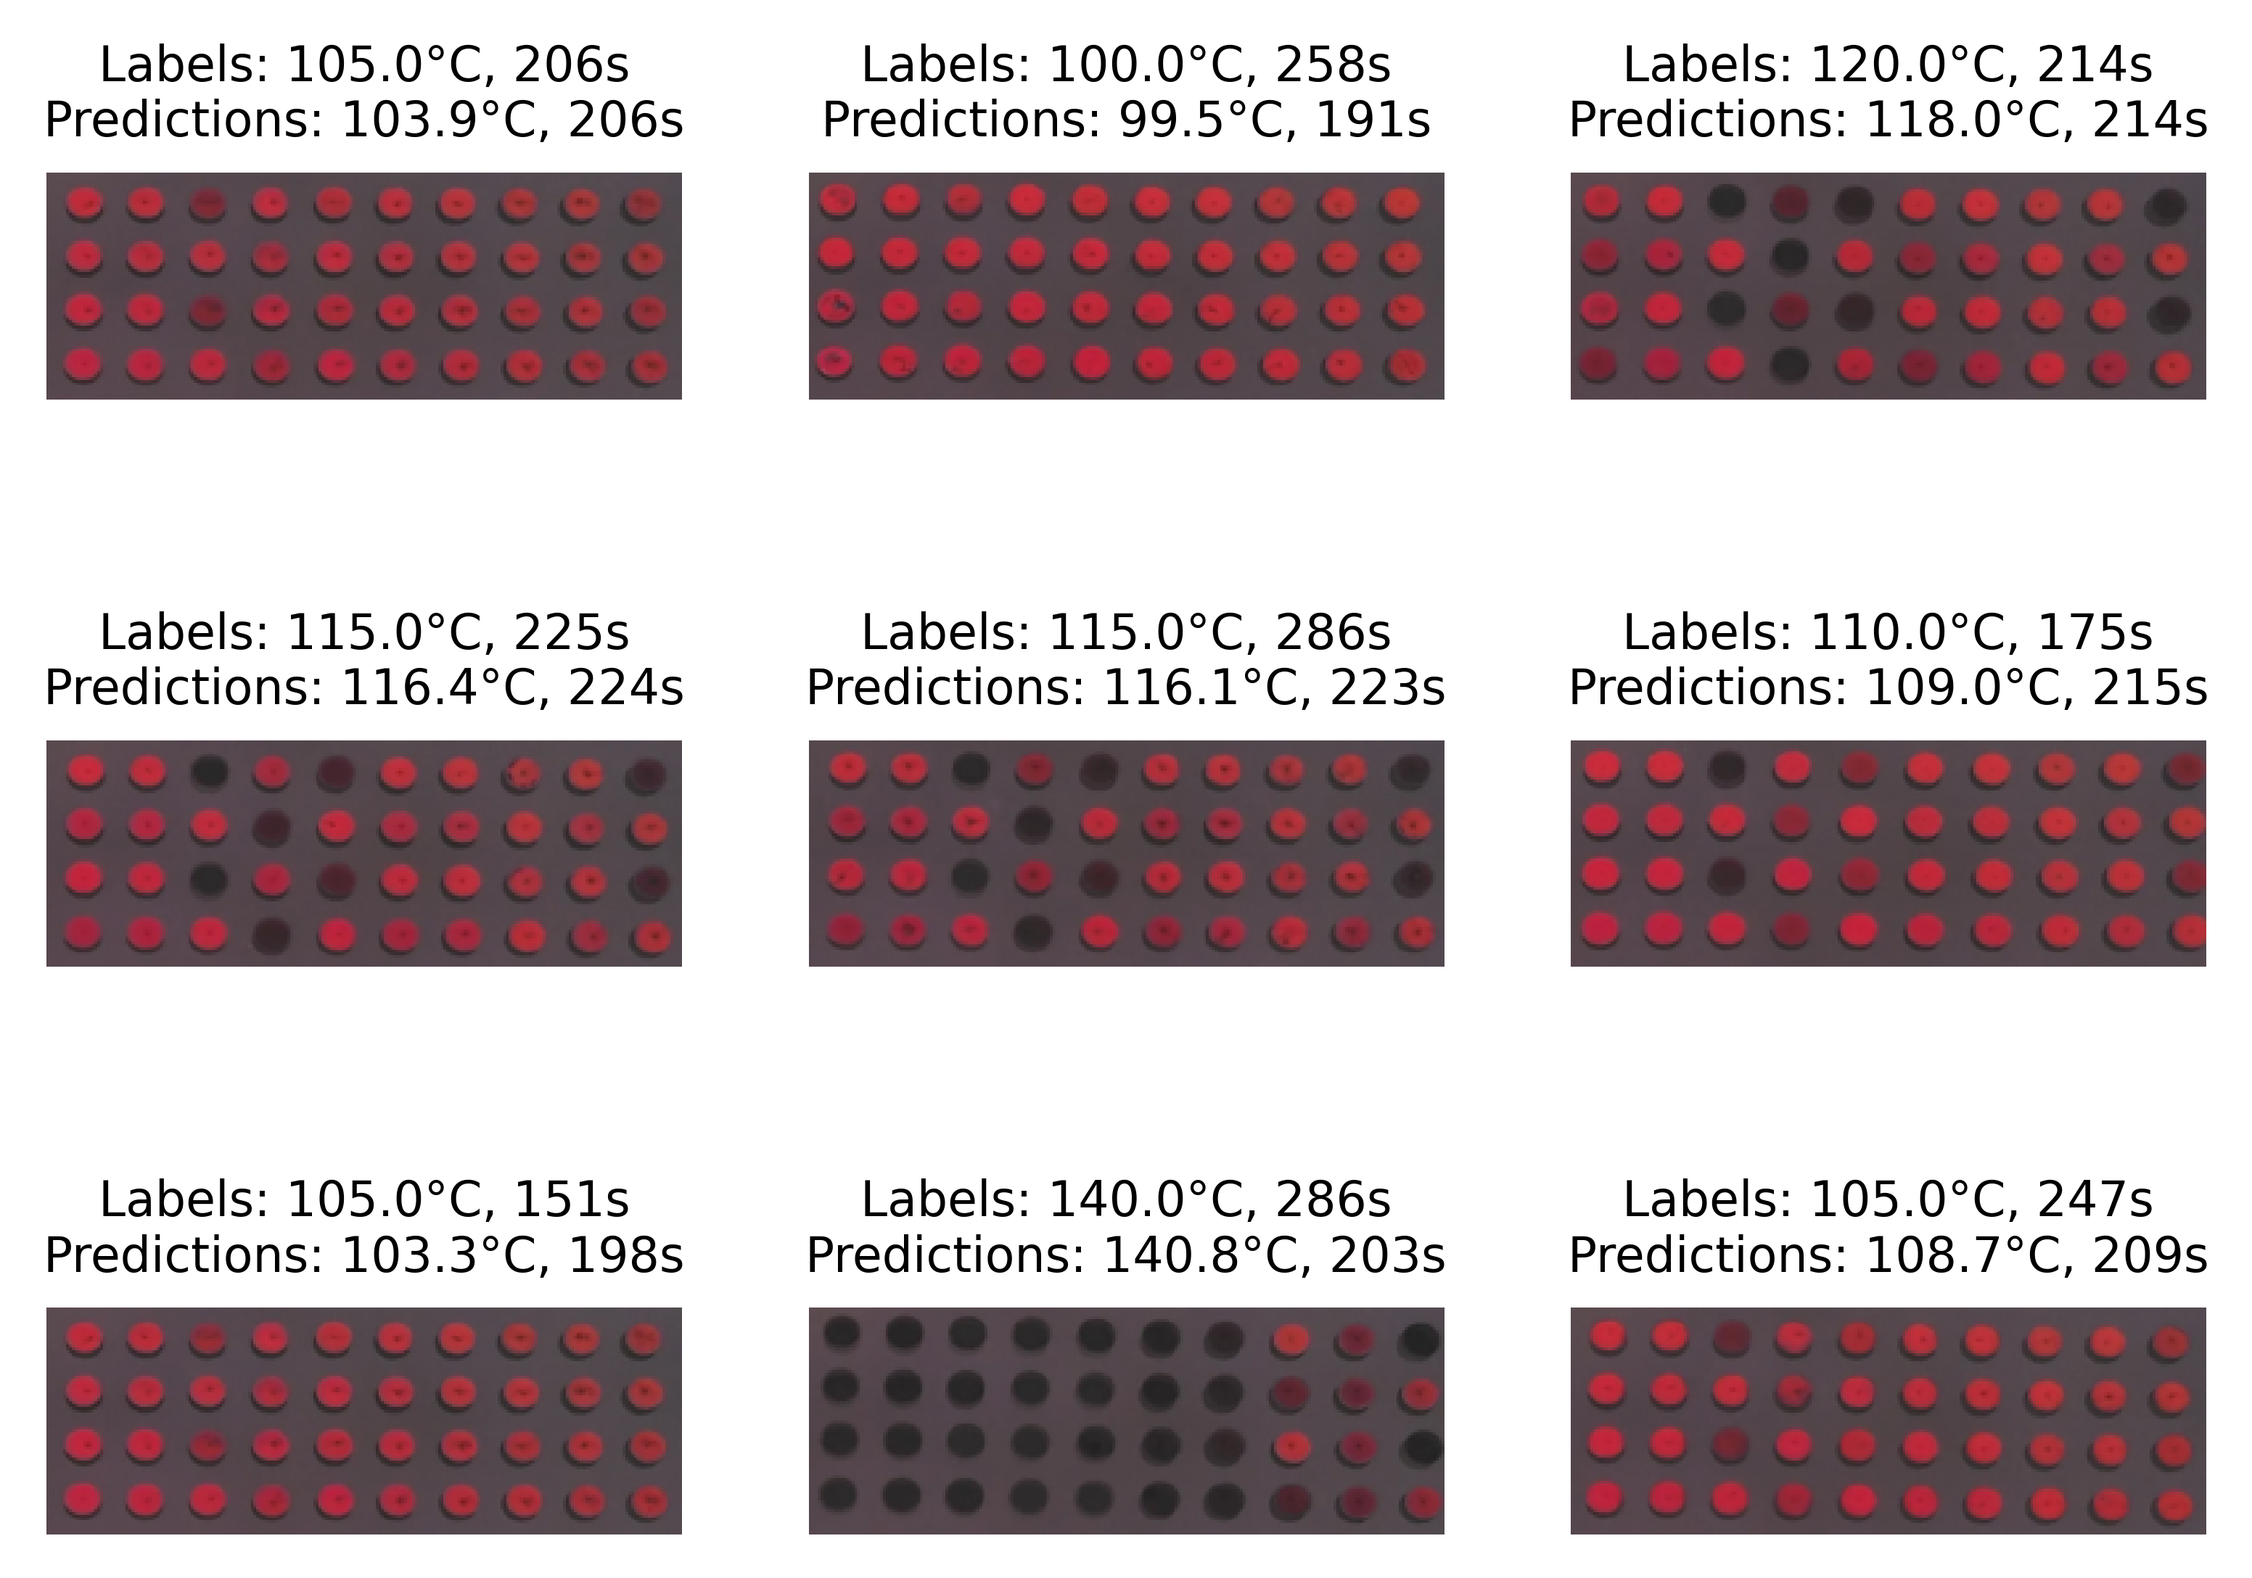
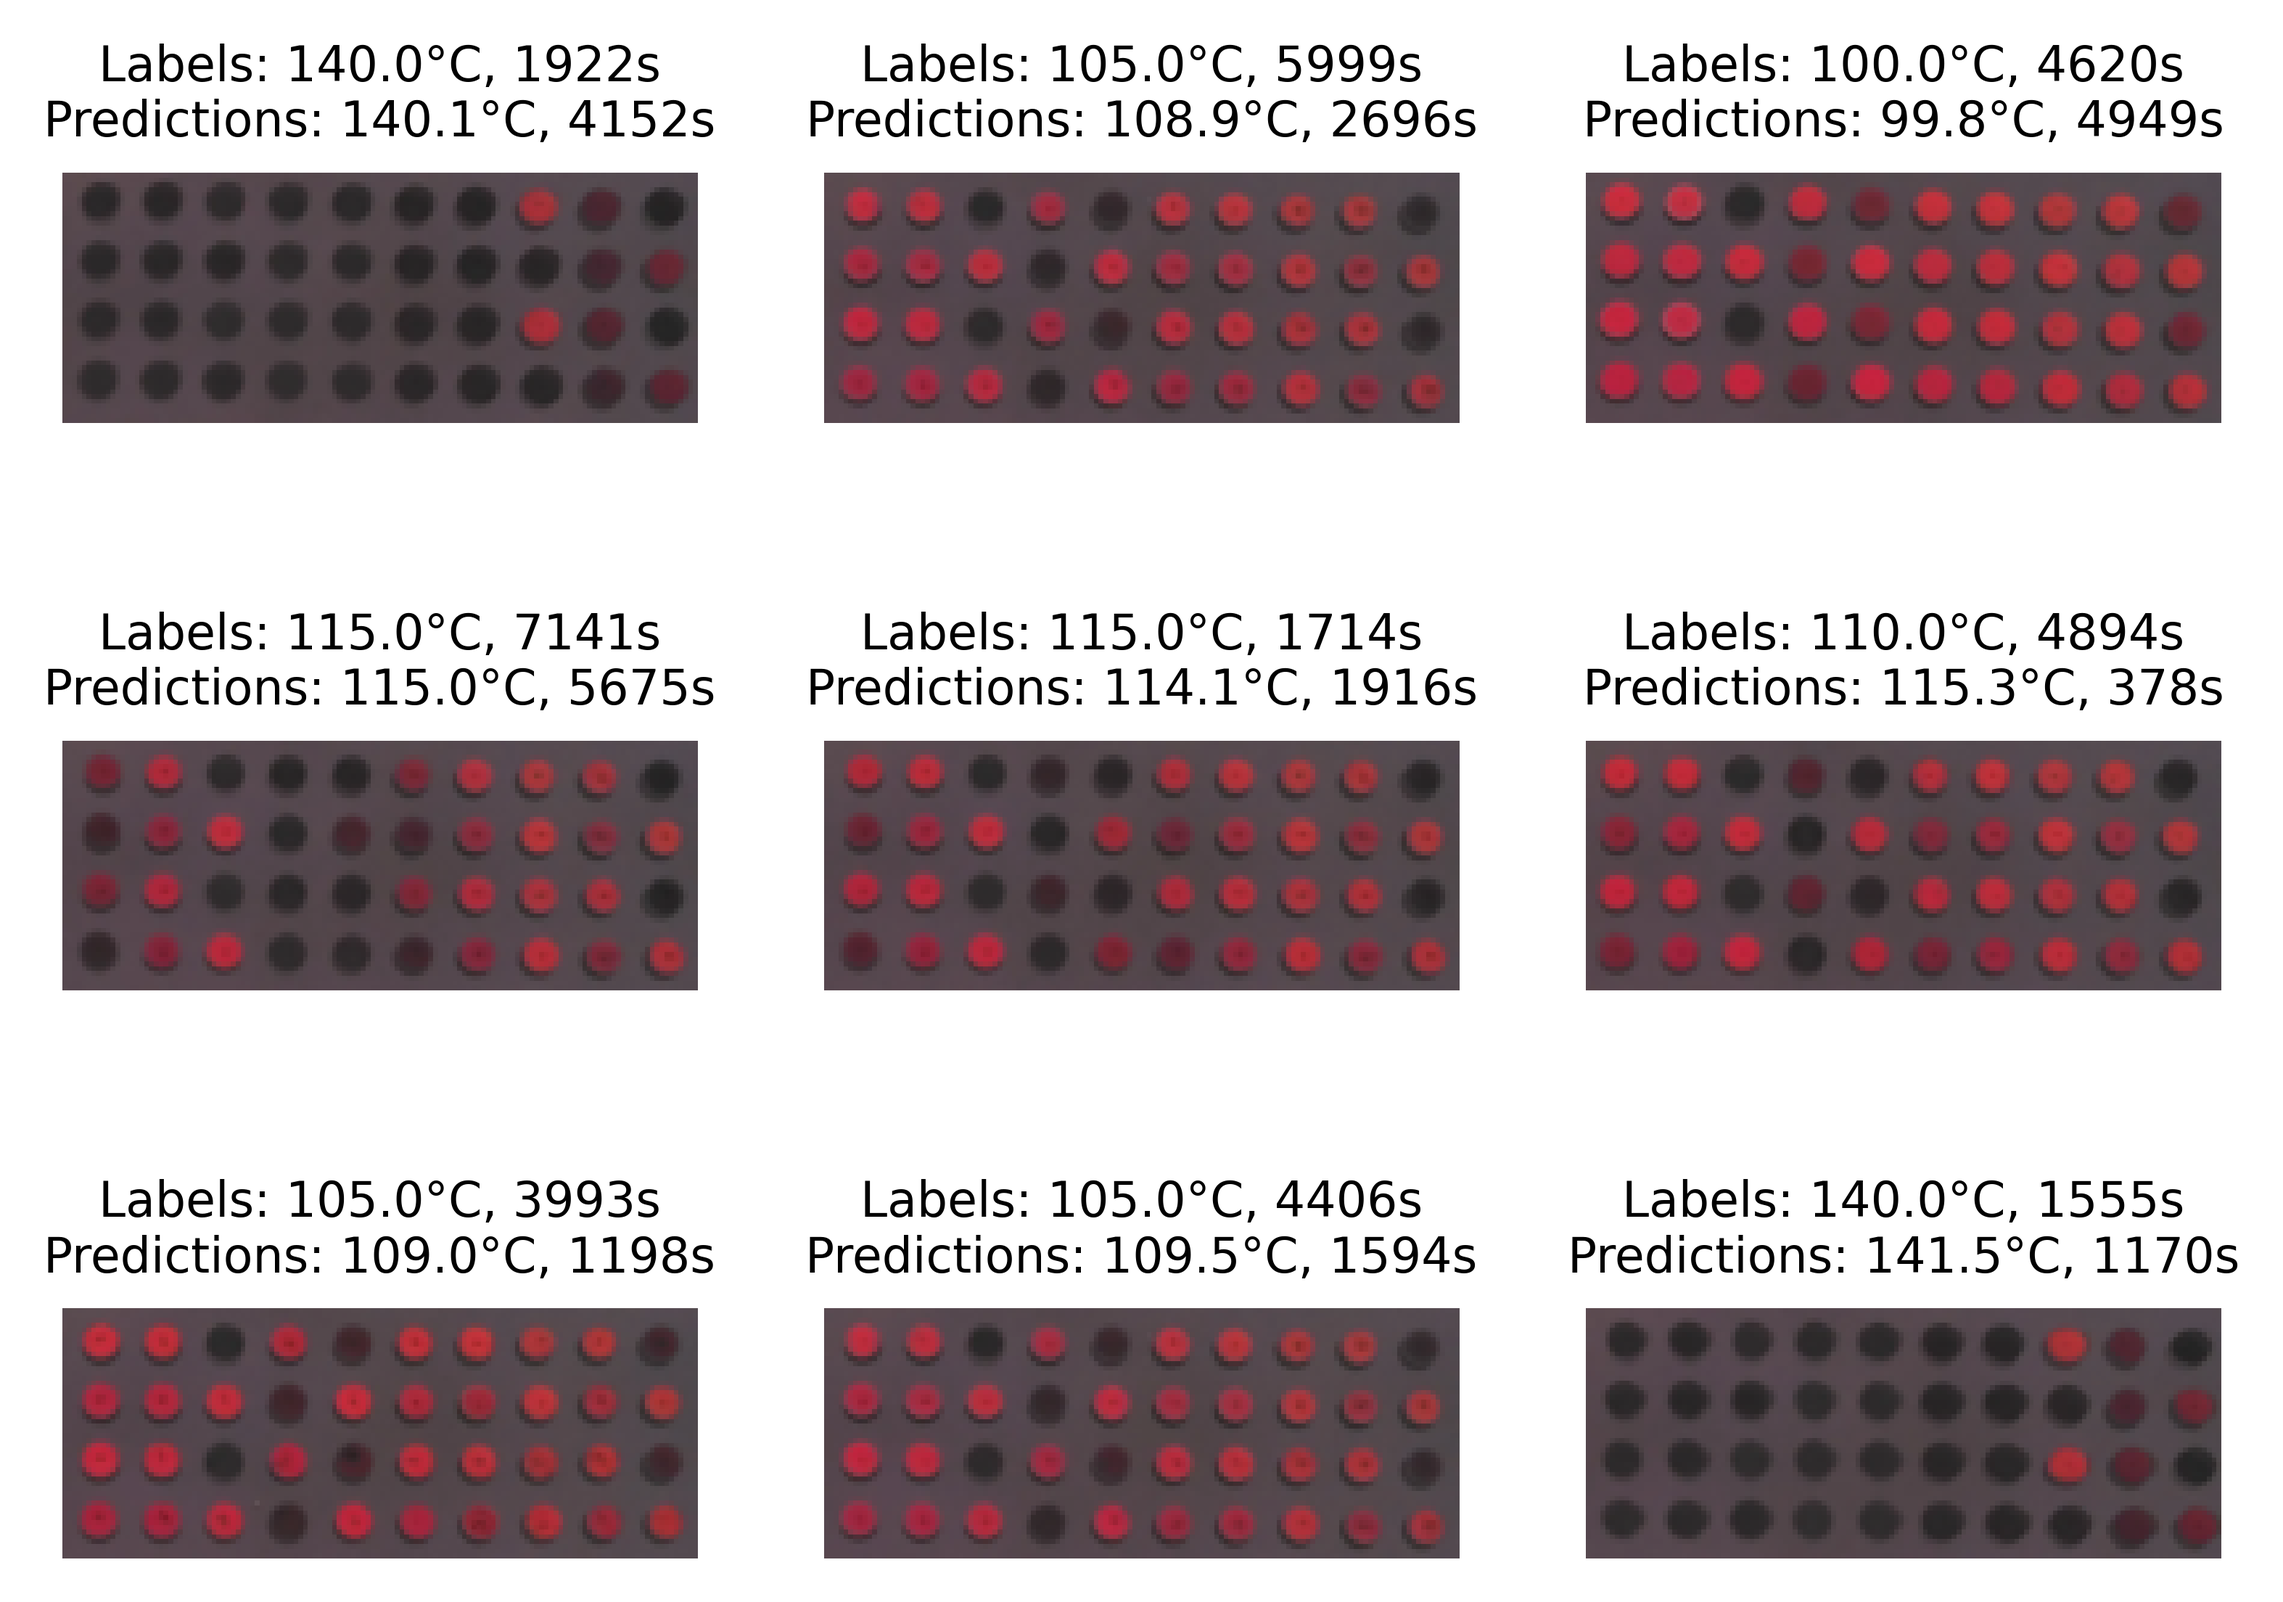
AdaptiveAvgPool2d added to custom_model

diff --git a/1_custom_model/train.py b/1_custom_model/train.py
@@ -16,11 +16,11 @@ import engine
 import utils
 
 # Set hyperparameters
-EPOCHS = 2
+EPOCHS = 10
 BATCH_SIZE = 64
 LEARNING_RATE = 1e-3
-NUM_CONV_BLOCKS = 10
-HIDDEN_UNITS = 10
+NUM_CONV_BLOCKS = 3
+HIDDEN_UNITS = 100
 DROPOUT_PROB = 0.5
 TRANSFORM = custom_transforms.CustomTransforms(downscaling_factor=8)
 MODEL = custom_model.CustomConvModel
@@ -31,8 +31,10 @@ RANDOM_SEED = 42
 NUM_WORKERS = os.cpu_count()
 
 # Data directory
-DATA_FOLDER = Path(os.path.abspath(__file__)).parents[1] / "0_data_preprocessing/split_assignment"
-ASSIGNMENT_FOLDER = DATA_FOLDER / "60-20-20-split_300-seconds"
+DATA_FOLDER = (
+    Path(os.path.abspath(__file__)).parents[1] / "0_data_preprocessing/split_assignment"
+)
+ASSIGNMENT_FOLDER = DATA_FOLDER / "60-20-20-split_7200-seconds"
 
 
 # Deep Learning
@@ -82,10 +84,12 @@ def main():
     )
 
     # Model, optimizer and loss function
-    model = MODEL(hidden_units=HIDDEN_UNITS,
-                  input_shape=list(train_data[0][0].shape),
-                  num_blocks=NUM_CONV_BLOCKS,
-                  dropout_prob=DROPOUT_PROB)
+    model = MODEL(
+        hidden_units=HIDDEN_UNITS,
+        input_shape=list(train_data[0][0].shape),
+        num_blocks=NUM_CONV_BLOCKS,
+        dropout_prob=DROPOUT_PROB,
+    )
     model.to(device)
 
     optimizer = OPTIMIZER(
@@ -144,10 +148,10 @@ def main():
         fig_pred=fig_pred,
         normalization_stats=train_data.stats,
         hyperparameters=hyperparameters,
-        save_dir=save_path
+        save_dir=save_path,
     )
 
 
 if __name__ == "__main__":
-    # torch.multiprocessing.set_start_method(method="spawn", force=True)
+    torch.multiprocessing.set_start_method(method="spawn", force=True)
     main()

diff --git a/2_pretrained_model/train.py b/2_pretrained_model/train.py
@@ -16,7 +16,7 @@ import engine
 import utils
 
 # Set hyperparameters
-EPOCHS = 2
+EPOCHS = 10
 BATCH_SIZE = 64
 LEARNING_RATE = 1e-3
 MODEL = "efficientnet_b0"
@@ -30,8 +30,10 @@ RANDOM_SEED = 42
 NUM_WORKERS = os.cpu_count()
 
 # Data directory
-DATA_FOLDER = Path(os.path.abspath(__file__)).parents[1] / "0_data_preprocessing/split_assignment"
-ASSIGNMENT_FOLDER = DATA_FOLDER / "60-20-20-split_300-seconds"
+DATA_FOLDER = (
+    Path(os.path.abspath(__file__)).parents[1] / "0_data_preprocessing/split_assignment"
+)
+ASSIGNMENT_FOLDER = DATA_FOLDER / "60-20-20-split_7200-seconds"
 
 
 # Deep Learning
@@ -95,7 +97,8 @@ def main():
         pretrained_model=MODEL,
         pretrained_weights=WEIGHTS,
         freeze_weights=FREEZE_WEIGHTS,
-        dropout_prob=DROPOUT_PROB)
+        dropout_prob=DROPOUT_PROB,
+    )
     model.to(device)
 
     optimizer = OPTIMIZER(
@@ -132,7 +135,7 @@ def main():
         device=device,
         stats=train_data.stats,
         image_mean=default_transform.mean,
-        image_std=default_transform.std
+        image_std=default_transform.std,
     )
     hyperparameters = {
         "epochs": EPOCHS,
@@ -158,7 +161,7 @@ def main():
         fig_pred=fig_pred,
         normalization_stats=train_data.stats,
         hyperparameters=hyperparameters,
-        save_dir=save_path
+        save_dir=save_path,
     )
 
 

diff --git a/1_custom_model/custom_model.py b/1_custom_model/custom_model.py
@@ -17,11 +17,11 @@ class CustomConvModel(nn.Module):
             conv_blocks.append(
                 nn.Sequential(
                     nn.Conv2d(
-                        in_channels, hidden_units, kernel_size=2, padding=1, stride=1
+                        in_channels, hidden_units, kernel_size=3, padding=1, stride=1
                     ),
                     nn.LeakyReLU(),
                     nn.Conv2d(
-                        hidden_units, hidden_units, kernel_size=2, padding=1, stride=1
+                        hidden_units, hidden_units, kernel_size=3, padding=1, stride=1
                     ),
                     nn.LeakyReLU(),
                     nn.MaxPool2d(2),
@@ -29,7 +29,7 @@ class CustomConvModel(nn.Module):
             )
             in_channels = hidden_units
 
-        self.conv = nn.Sequential(*conv_blocks)
+        self.conv = nn.Sequential(*conv_blocks, nn.AdaptiveAvgPool2d((1, 1)))
 
         # Determine length of flattened output
         with torch.no_grad():

diff --git a/0_data_preprocessing/train_cv_test_split.py b/0_data_preprocessing/train_cv_test_split.py
@@ -54,10 +54,11 @@ def read_single_measurement(experiment_path: Path, temperature: int) -> pd.DataF
 
 # Loop over all temperature and sample folders
 if __name__ == "__main__":
-
+    cwd = Path(os.path.abspath(__file__)).parent
     save_folder = (
-            Path("./split_assignment")
-            / f"{int(TRAIN_FRACTION * 100)}-{int(CV_FRACTION * 100)}-{int(TEST_FRACTION * 100)}-split_{int(MAX_TIME)}-seconds"
+        cwd
+        / "split_assignment"
+        / f"{int(TRAIN_FRACTION * 100)}-{int(CV_FRACTION * 100)}-{int(TEST_FRACTION * 100)}-split_{int(MAX_TIME)}-seconds"
     )
 
     if save_folder.is_dir():

diff --git a/README.md b/README.md
@@ -30,7 +30,7 @@ obtained with a custom network, to those of a fine-tuned, pretrained model.
 
 Predictions on a random subset of the test data:
 
-<img src="Example.png" width="500">
+<img src="example.png" width="500">
 
 ### Prerequisites
 
